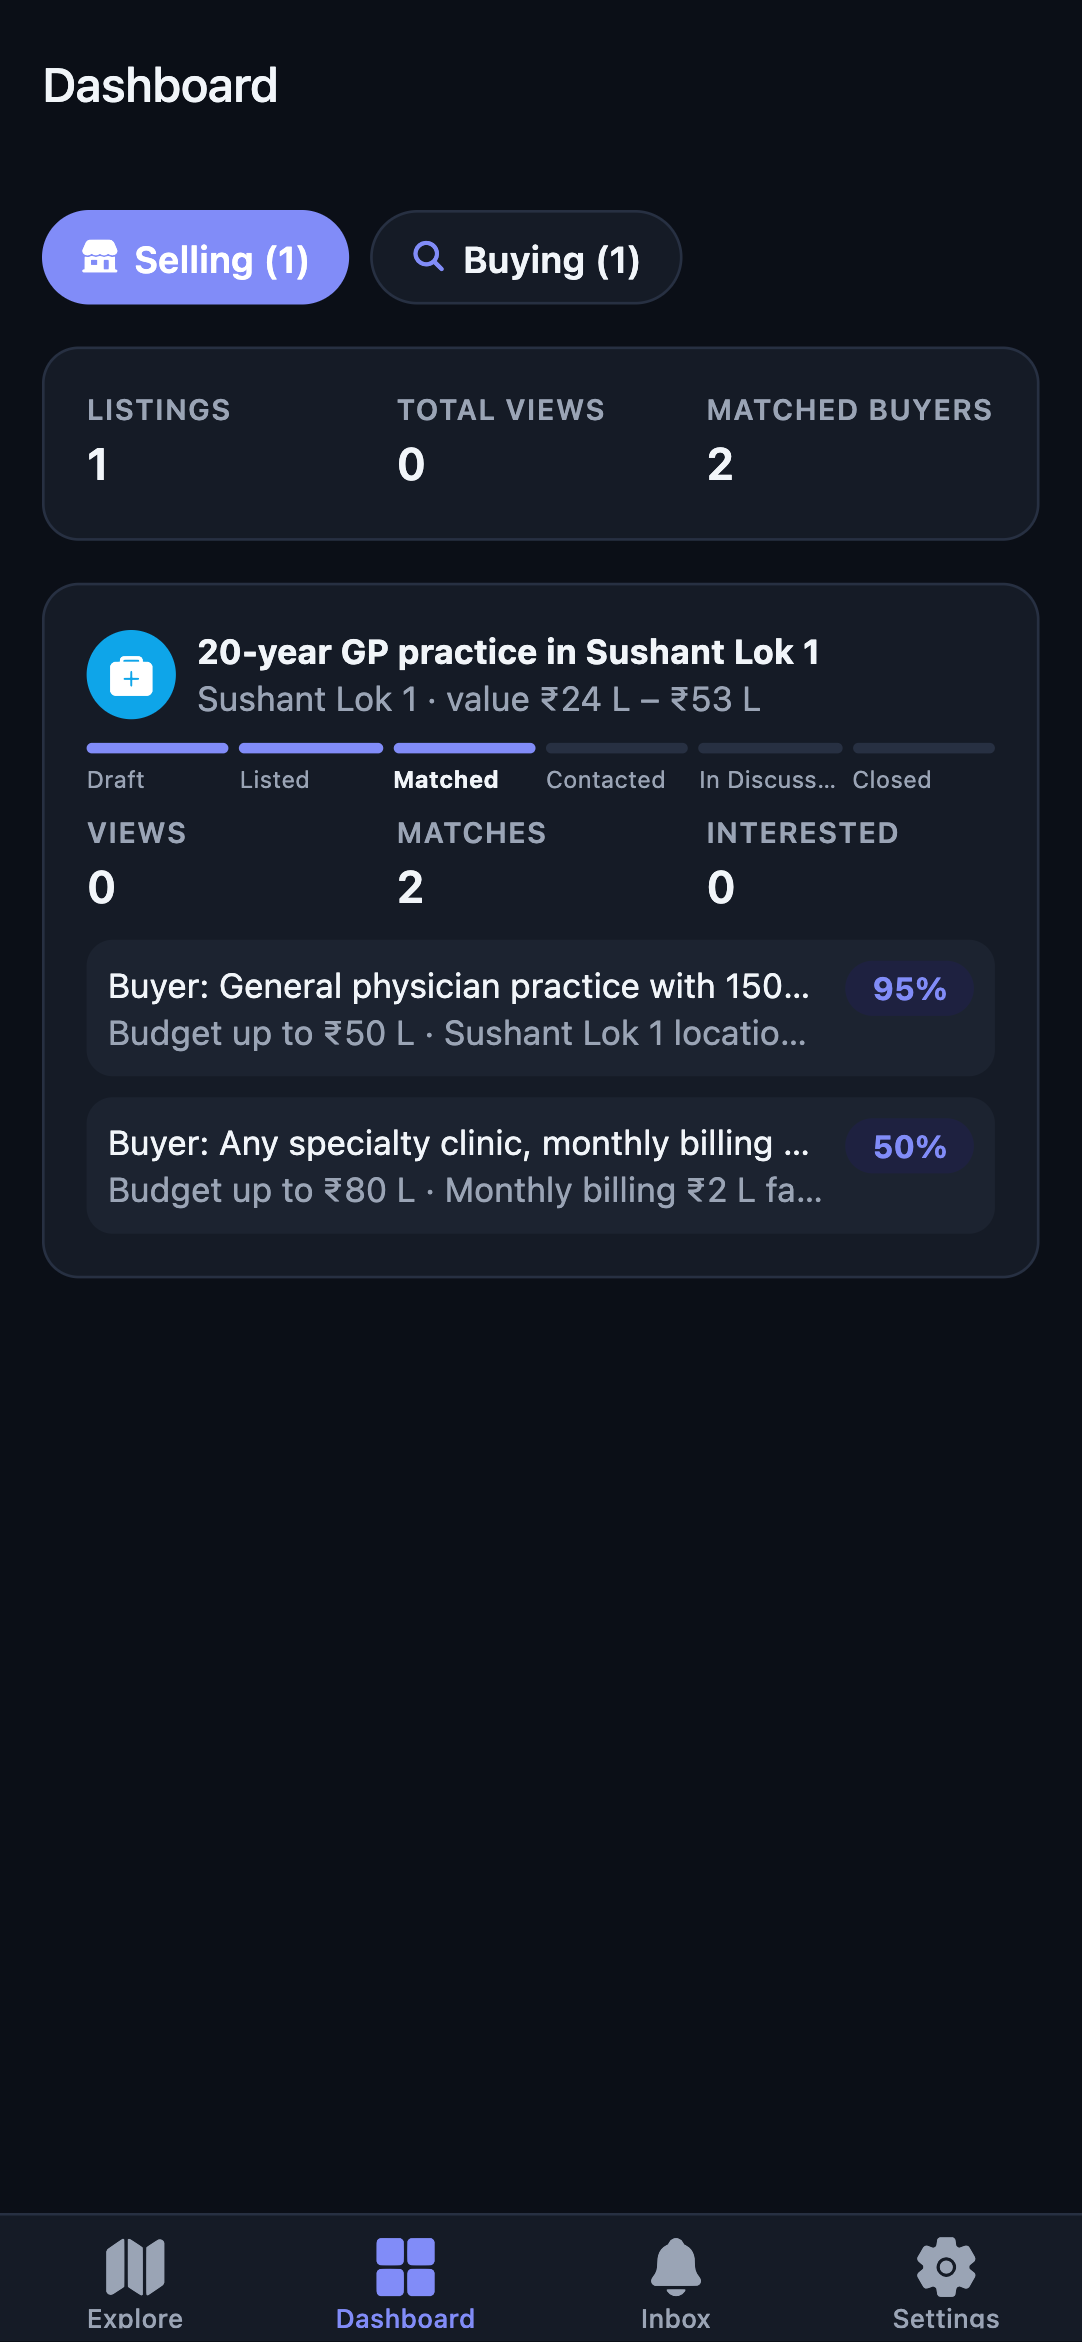
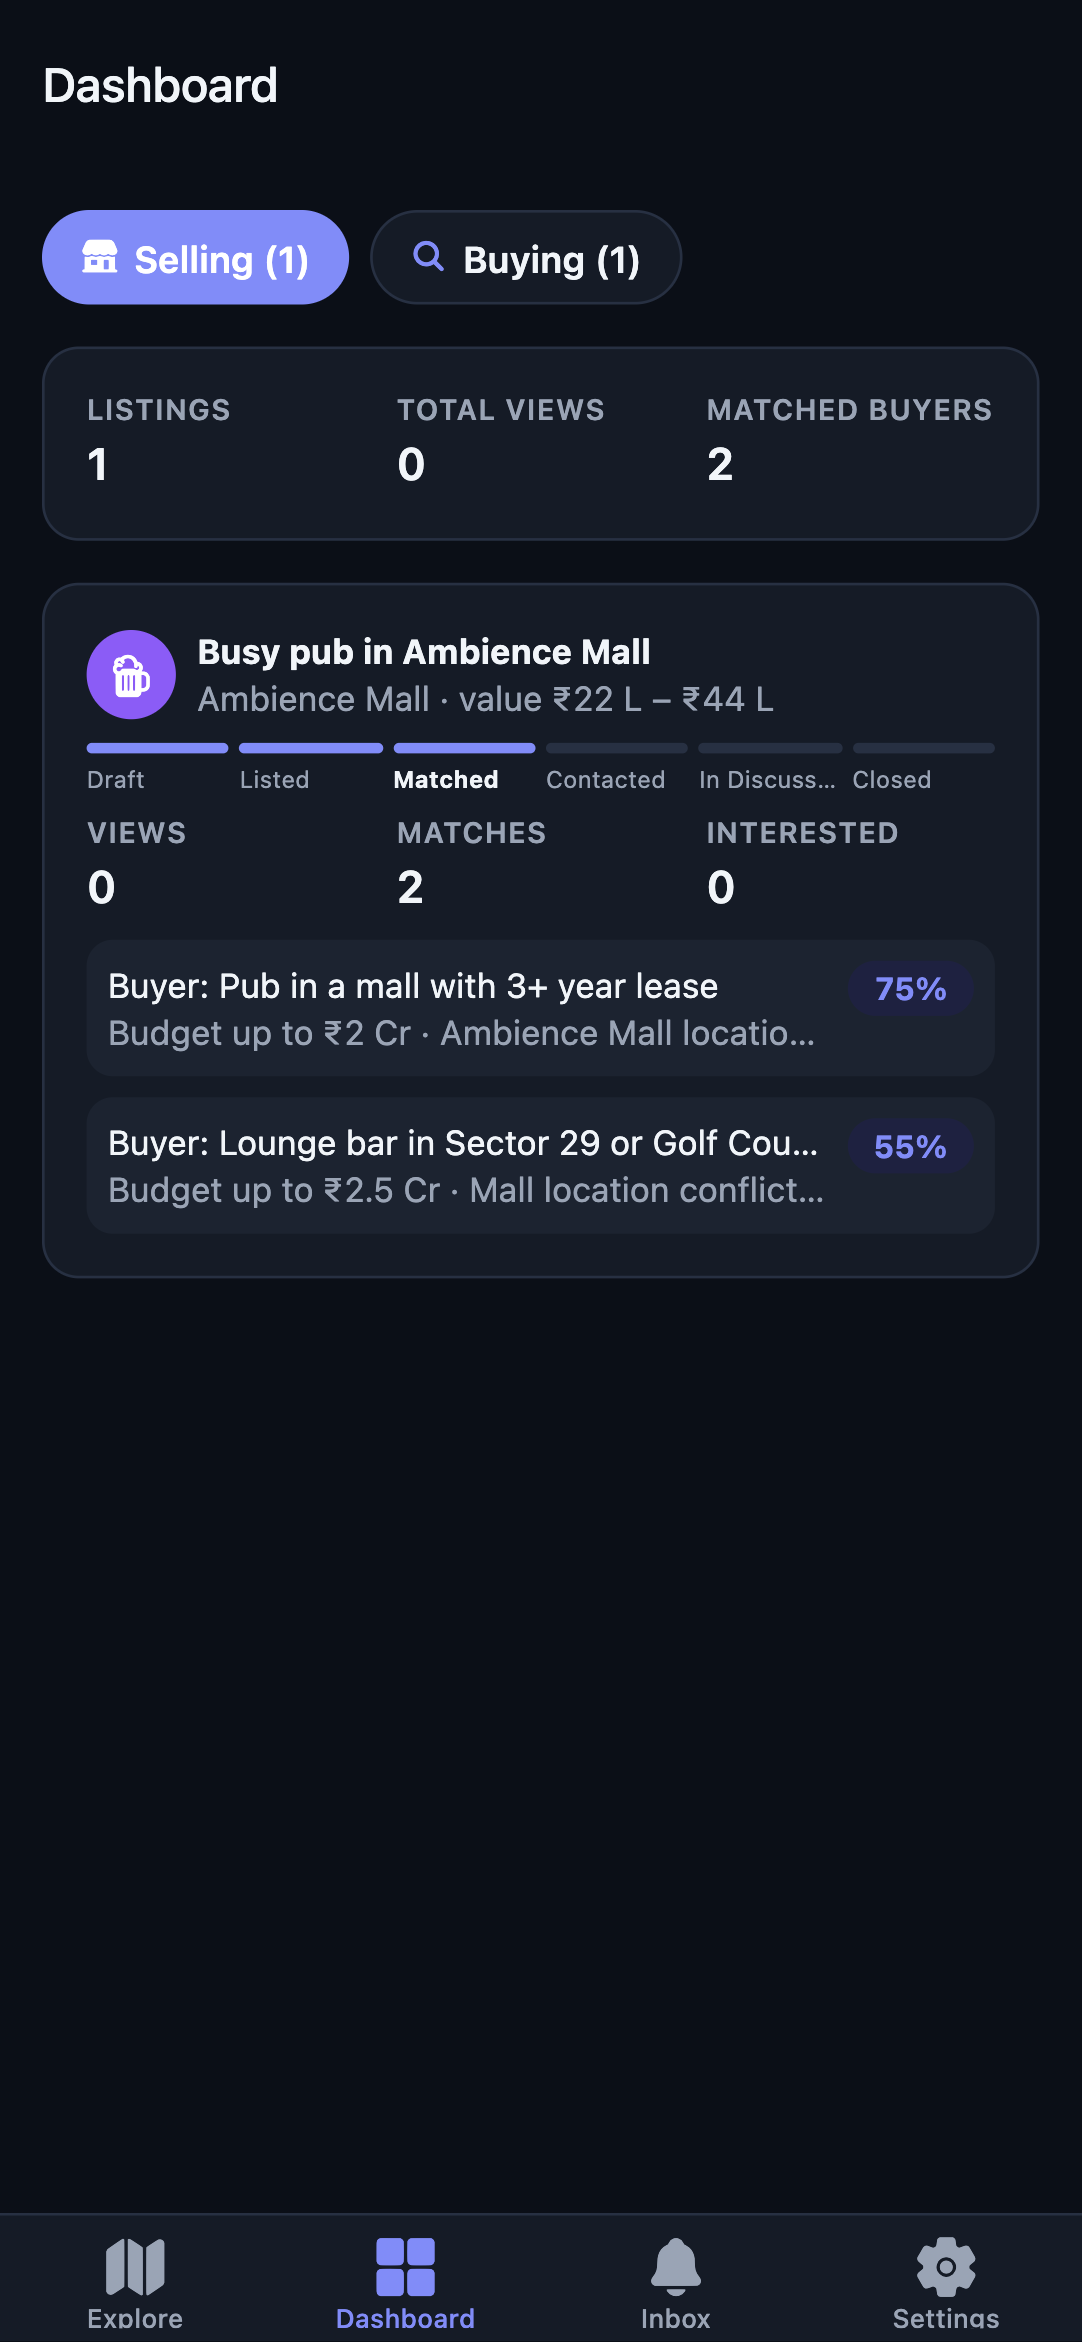
Phase 2 Goal 1: live web demo on GitHub Pages
- app.config.ts: web base path + single package ID knob
- scripts/deploy-web.sh + check-no-secrets.mts (npm run web:deploy)
- web: speech hook shows 'Voice works in the Android app', browser dialogs replace Alert.alert
- ui-check can test the deployed URL; seller flow uses the brief's pub example

Changed region(s): [[0.2135, 0.4052, 0.732, 0.5299], [0.061, 0.2494, 0.732, 0.3117]]

diff --git a/src/app/requirement/[id].tsx b/src/app/requirement/[id].tsx
@@ -1,12 +1,13 @@
 import { router, useFocusEffect, useLocalSearchParams } from 'expo-router';
 import { useCallback, useState } from 'react';
-import { ActivityIndicator, Alert, ScrollView, StyleSheet, View } from 'react-native';
+import { ActivityIndicator, ScrollView, StyleSheet, View } from 'react-native';
 
 import { ListingCard } from '@/components/listing-card';
 import { Button, Card, Empty, Pill, StageStepper, T } from '@/components/ui';
 import { Spacing } from '@/constants/theme';
 import { useTheme } from '@/hooks/use-theme';
 import { displayFields, typeOf } from '@/lib/config';
+import { confirm } from '@/lib/dialog';
 import { formatINRCompact } from '@/lib/inr';
 import { ensureSession, supabase } from '@/lib/supabase';
 import { track } from '@/lib/track';
@@ -40,19 +41,12 @@ export default function RequirementDetail() {
   const t = typeOf(req.business_type);
   const criteria = displayFields(req.business_type, 'buyer').filter((f) => f.key !== 'budget_max' && f.key !== 'budget_min');
 
-  const close = () =>
-    Alert.alert('Close this search?', 'You’ll stop getting matches for it.', [
-      { text: 'Cancel', style: 'cancel' },
-      {
-        text: 'Close search',
-        style: 'destructive',
-        onPress: async () => {
-          await supabase.rpc('set_requirement_stage', { p_requirement_id: req.id, p_stage: 'closed' });
-          track('requirement_closed', { requirement_id: req.id }, 'requirement');
-          router.back();
-        },
-      },
-    ]);
+  const close = async () => {
+    if (!(await confirm('Close this search?', 'You’ll stop getting matches for it.', 'Close search', true))) return;
+    await supabase.rpc('set_requirement_stage', { p_requirement_id: req.id, p_stage: 'closed' });
+    track('requirement_closed', { requirement_id: req.id }, 'requirement');
+    router.back();
+  };
 
   return (
     <ScrollView style={{ backgroundColor: theme.background }} contentContainerStyle={styles.content}>

diff --git a/src/app/(tabs)/settings.tsx b/src/app/(tabs)/settings.tsx
@@ -1,9 +1,10 @@
 import { router } from 'expo-router';
-import { Alert, ScrollView, StyleSheet, View } from 'react-native';
+import { ScrollView, StyleSheet, View } from 'react-native';
 
 import { Button, Card, Chip, T } from '@/components/ui';
 import { Spacing } from '@/constants/theme';
 import { useTheme, useThemePref, type ThemePref } from '@/hooks/use-theme';
+import { confirm, notify } from '@/lib/dialog';
 import { setRolePref } from '@/lib/prefs';
 import { ensureSession, resetSession, supabase } from '@/lib/supabase';
 import { track } from '@/lib/track';
@@ -18,22 +19,15 @@ export default function Settings() {
   const theme = useTheme();
   const { pref, setPref } = useThemePref();
 
-  const deleteData = () =>
-    Alert.alert('Delete all my data?', 'This permanently removes your listings, searches, chats and contact details.', [
-      { text: 'Cancel', style: 'cancel' },
-      {
-        text: 'Delete',
-        style: 'destructive',
-        onPress: async () => {
-          await ensureSession();
-          const { error } = await supabase.rpc('delete_my_data');
-          if (error) return Alert.alert('Could not delete', error.message);
-          await resetSession();
-          await setRolePref(null);
-          router.replace('/');
-        },
-      },
-    ]);
+  const deleteData = async () => {
+    if (!(await confirm('Delete all my data?', 'This permanently removes your listings, searches, chats and contact details.', 'Delete', true))) return;
+    await ensureSession();
+    const { error } = await supabase.rpc('delete_my_data');
+    if (error) return notify('Could not delete', error.message);
+    await resetSession();
+    await setRolePref(null);
+    router.replace('/');
+  };
 
   return (
     <ScrollView style={{ backgroundColor: theme.background }} contentContainerStyle={styles.content}>

diff --git a/src/app/listing/[id].tsx b/src/app/listing/[id].tsx
@@ -1,12 +1,13 @@
 import { router, useLocalSearchParams } from 'expo-router';
 import { useEffect, useState } from 'react';
-import { ActivityIndicator, Alert, ScrollView, StyleSheet, View } from 'react-native';
+import { ActivityIndicator, ScrollView, StyleSheet, View } from 'react-native';
 
 import { TypeBadge } from '@/components/listing-card';
 import { Button, Card, Icon, Pill, StageStepper, T } from '@/components/ui';
 import { STAGE_LABEL, Spacing, type Stage } from '@/constants/theme';
 import { useTheme } from '@/hooks/use-theme';
 import { typeOf } from '@/lib/config';
+import { notify } from '@/lib/dialog';
 import { formatINR, formatINRCompact, formatRange } from '@/lib/inr';
 import { ensureSession, supabase } from '@/lib/supabase';
 import { track, trackView } from '@/lib/track';
@@ -62,7 +63,7 @@ export default function ListingDetail() {
     setSending(true);
     const { error } = await supabase.rpc('express_interest', { p_listing_id: l.id, p_note: null });
     setSending(false);
-    if (error) return Alert.alert('Could not send', error.message);
+    if (error) return notify('Could not send', error.message);
     setInterested(true);
     track('interest_expressed', { listing_id: l.id }, 'listing');
     router.push({ pathname: '/contact', params: { reason: 'interest' } });
@@ -70,7 +71,7 @@ export default function ListingDetail() {
 
   const advance = async (to: Stage) => {
     const { error } = await supabase.rpc('set_listing_stage', { p_listing_id: l.id, p_stage: to });
-    if (error) return Alert.alert('Could not update', error.message);
+    if (error) return notify('Could not update', error.message);
     setL({ ...l, stage: to });
     track('stage_changed', { listing_id: l.id, to }, 'listing');
   };

diff --git a/src/app/contact.tsx b/src/app/contact.tsx
@@ -1,11 +1,12 @@
 import { router, useLocalSearchParams } from 'expo-router';
 import { useEffect, useState } from 'react';
-import { Alert, KeyboardAvoidingView, Platform, ScrollView, StyleSheet, Switch, TextInput, View } from 'react-native';
+import { KeyboardAvoidingView, Platform, ScrollView, StyleSheet, Switch, TextInput, View } from 'react-native';
 
 import { Button, T } from '@/components/ui';
 import { Radius, Spacing } from '@/constants/theme';
 import { useTheme } from '@/hooks/use-theme';
 import { agents } from '@/lib/agents';
+import { notify } from '@/lib/dialog';
 import { ensureSession, supabase } from '@/lib/supabase';
 import { track } from '@/lib/track';
 
@@ -49,7 +50,7 @@ export default function Contact() {
     });
     if (!error && watch) await agents.watch().catch(() => {});
     setSaving(false);
-    if (error) return Alert.alert('Could not save', error.message);
+    if (error) return notify('Could not save', error.message);
     track('contact_shared', { phone: !!p, email: !!email, watch, reason }, 'contact');
     router.back();
   };

diff --git a/src/lib/dialog.ts b/src/lib/dialog.ts
@@ -1,0 +1,17 @@
+// Alert.alert is a no-op on react-native-web; these fall back to the browser dialogs there.
+import { Alert, Platform } from 'react-native';
+
+export function notify(title: string, message?: string) {
+  if (Platform.OS === 'web') window.alert(message ? `${title}\n\n${message}` : title);
+  else Alert.alert(title, message);
+}
+
+export function confirm(title: string, message: string, okLabel: string, destructive = false): Promise<boolean> {
+  if (Platform.OS === 'web') return Promise.resolve(window.confirm(`${title}\n\n${message}`));
+  return new Promise((resolve) =>
+    Alert.alert(title, message, [
+      { text: 'Cancel', style: 'cancel', onPress: () => resolve(false) },
+      { text: okLabel, style: destructive ? 'destructive' : 'default', onPress: () => resolve(true) },
+    ]),
+  );
+}

diff --git a/app.config.ts b/app.config.ts
@@ -1,0 +1,13 @@
+// Dynamic layer over app.json. Two knobs, both env-driven so no code changes are needed:
+//   APP_PACKAGE_ID  Android package / iOS bundle id (default com.bizswap.gurgaon)
+//   EXPO_BASE_URL   web sub-path for static hosting, e.g. /bizswap-gurgaon on GitHub Pages (web only)
+import type { ConfigContext, ExpoConfig } from 'expo/config';
+
+export const PACKAGE_ID = process.env.APP_PACKAGE_ID || 'com.bizswap.gurgaon';
+
+export default ({ config }: ConfigContext): ExpoConfig => ({
+  ...(config as ExpoConfig),
+  android: { ...config.android, package: PACKAGE_ID },
+  ios: { ...config.ios, bundleIdentifier: PACKAGE_ID },
+  experiments: { ...config.experiments, ...(process.env.EXPO_BASE_URL ? { baseUrl: process.env.EXPO_BASE_URL } : {}) },
+});

diff --git a/src/hooks/use-speech.web.ts b/src/hooks/use-speech.web.ts
@@ -1,0 +1,13 @@
+// Web build: no speech recognition (browser support is patchy). The mic explains that and the user types.
+import { useCallback, useState } from 'react';
+
+import type { SpeechResult } from './use-speech';
+
+export type { SpeechResult };
+
+export function useSpeech(_onFinal: (r: SpeechResult) => void) {
+  const [error, setError] = useState<string | null>(null);
+  const start = useCallback(async () => setError('Voice works in the Android app — type here instead.'), []);
+  const stop = useCallback(() => {}, []);
+  return { listening: false, partial: '', error, start, stop };
+}

diff --git a/src/components/listing-card.tsx b/src/components/listing-card.tsx
@@ -15,7 +15,7 @@ export function keyMetrics(typeKey: string, a: Attrs): { label: string; value: s
     case 'restaurant':
       return [
         { label: 'Daily billing', value: formatINRCompact(n('daily_billing')) },
-        { label: 'Footfall/day', value: n('daily_footfall')?.toString() ?? '—' },
+        { label: 'Daily visits', value: n('daily_footfall')?.toString() ?? '—' },
         { label: 'Lease left', value: n('lease_remaining_years') !== null ? `${n('lease_remaining_years')} yrs` : '—' },
       ];
     case 'doctor':

diff --git a/docs/AI_BUILD_LOG.md b/docs/AI_BUILD_LOG.md
@@ -22,6 +22,7 @@ The company brief asks for maximum use of AI coders. This file records what was 
 | M4 Discovery | MapLibre native map + OpenFreeMap tiles (no key), colour-coded pins, filter chips, debounced search with locality fly-to, bottom sheet, list view, listing detail with AI valuation and “I’m interested”, contact modal, web map fallback | — | Headless test found the web map blank: maplibre-gl v6 worker can’t be served by Metro → agent switched web preview to the v4 UMD build from CDN. Also caught attribution overlapping buttons and a ₹346.8L (should be ₹3.47 Cr) formatting bug. |
 | M5–M6 Buyer flow, dashboards, inbox | Seller/buyer dashboards with 6-stage pipeline, anonymised matched buyers, requirement detail with ranked matches, inbox fed by watch-agent, in-app privacy policy (single source, also exported to HTML) | — | Full headless run (seller → buyer → dashboards → inbox → map) caught a 400 from an UPDATE without WHERE (Supabase safe-update) — fixed. |
 | M7 Release assets (part 1) | Store-asset generator (icon, adaptive icon, splash, favicon, 1024×500 feature graphic, 8 captioned 9:16 Play screenshots from the automated UI run), Play listing text + Data safety / content-rating answers, privacy policy HTML for GitHub Pages (same source as in-app screen), README with Mermaid architecture + seller sequence diagrams | — | All graphics rendered from code via headless Chrome; no design tools. Signed AAB/APK pending EAS login. |
+| Phase 2 · Goal 1 Live web demo | GitHub Pages deploy script (`web:deploy`) with base-path config, SPA deep-link fallback, privacy policy on the same site and a pre-publish secret scan; web-only speech hook ("Voice works in the Android app"); web-safe dialogs; UI test can target the live URL | — | Agent found `Alert.alert` silently does nothing on web (delete-data and close-search were broken there) and replaced it. GitHub token lacked `workflow` scope, so it switched from an Actions workflow to a local build pushed to `gh-pages` instead of blocking on another login. Live run: pub seller, CA buyer, dashboards, inbox, map — all pass at 412×892. |
 
 ## Runtime AI (inside the product)
 

diff --git a/CLAUDE.md b/CLAUDE.md
@@ -23,6 +23,8 @@ Also read `AGENTS.md` (Expo SDK 58 rules — don't trust memory for Expo APIs; c
 | Deploy agents | `npm run functions:deploy` |
 | Agent smoke tests | `npm run smoke` |
 | Store assets | `npm run assets` |
+| Deploy web demo + privacy page | `npm run web:deploy` → https://jay0085-cdr.github.io/bizswap-gurgaon/ |
+| UI test against live site | `UI_BASE=https://jay0085-cdr.github.io/bizswap-gurgaon node scripts/ui-check.mts all` |
 | Builds | `npm run build:dev` · `npm run build:apk` · `npm run build:aab` |
 
 ## Layout
@@ -43,6 +45,8 @@ scripts/            setup/deploy/seed/smoke/assets  store/  Play Store assets   
 - Public catalogue reads go through `public_listings` view (no seller identity). Pins are jittered ~250 m.
 - Client writes only to: profiles, contacts, events, search_events, listing_views, saved_searches, notifications.read_at, and via RPCs. Everything else is written by agents (service role).
 - Style: functional components, `StyleSheet.create`, theme via `useTheme()`; primitives in `src/components/ui.tsx`. Keep comments sparse.
+- Web: anything native-only needs a `.web.ts(x)` twin (see `use-speech.web.ts`, `listing-map.web.tsx`). Use `confirm`/`notify` from `src/lib/dialog.ts`, never `Alert.alert` (no-op on web).
+- Package ID lives only in `app.config.ts` (`APP_PACKAGE_ID` env overrides).
 - Before each commit: `npm run check`. Log AI usage in `docs/AI_BUILD_LOG.md`.
 
 ## Milestones

diff --git a/README.md b/README.md
@@ -4,6 +4,8 @@
 
 Sellers and buyers never fill in a form. They just **speak or type**. Five AI agents do the rest: they extract the details, ask for anything missing, geocode the location, write an anonymised listing, value the business, match buyers with sellers, and watch for new matches.
 
+**▶ Live web demo: https://jay0085-cdr.github.io/bizswap-gurgaon/** (voice input is Android-only; type on web)
+
 Built as a 2-day internship MVP for WildCatter Ventures. **Zero cost:** only free tiers, with no credit card anywhere.
 
 | | | | |
@@ -159,6 +161,7 @@ Everything is in `/store`: the icon, feature graphic, eight 9:16 screenshots, th
 | `npm run assets` | Regenerates the icon, splash, feature graphic, Play screenshots and privacy HTML from code |
 | `npm run db:push` | Regenerates the seed and pushes migrations (needs only the DB password) |
 | `npm run functions:deploy` | Redeploys all agents |
+| `npm run web:deploy` | Builds the web app, checks it for leaked secrets, publishes it plus the privacy policy to GitHub Pages (`gh-pages` branch) |
 
 ## Project layout
 
